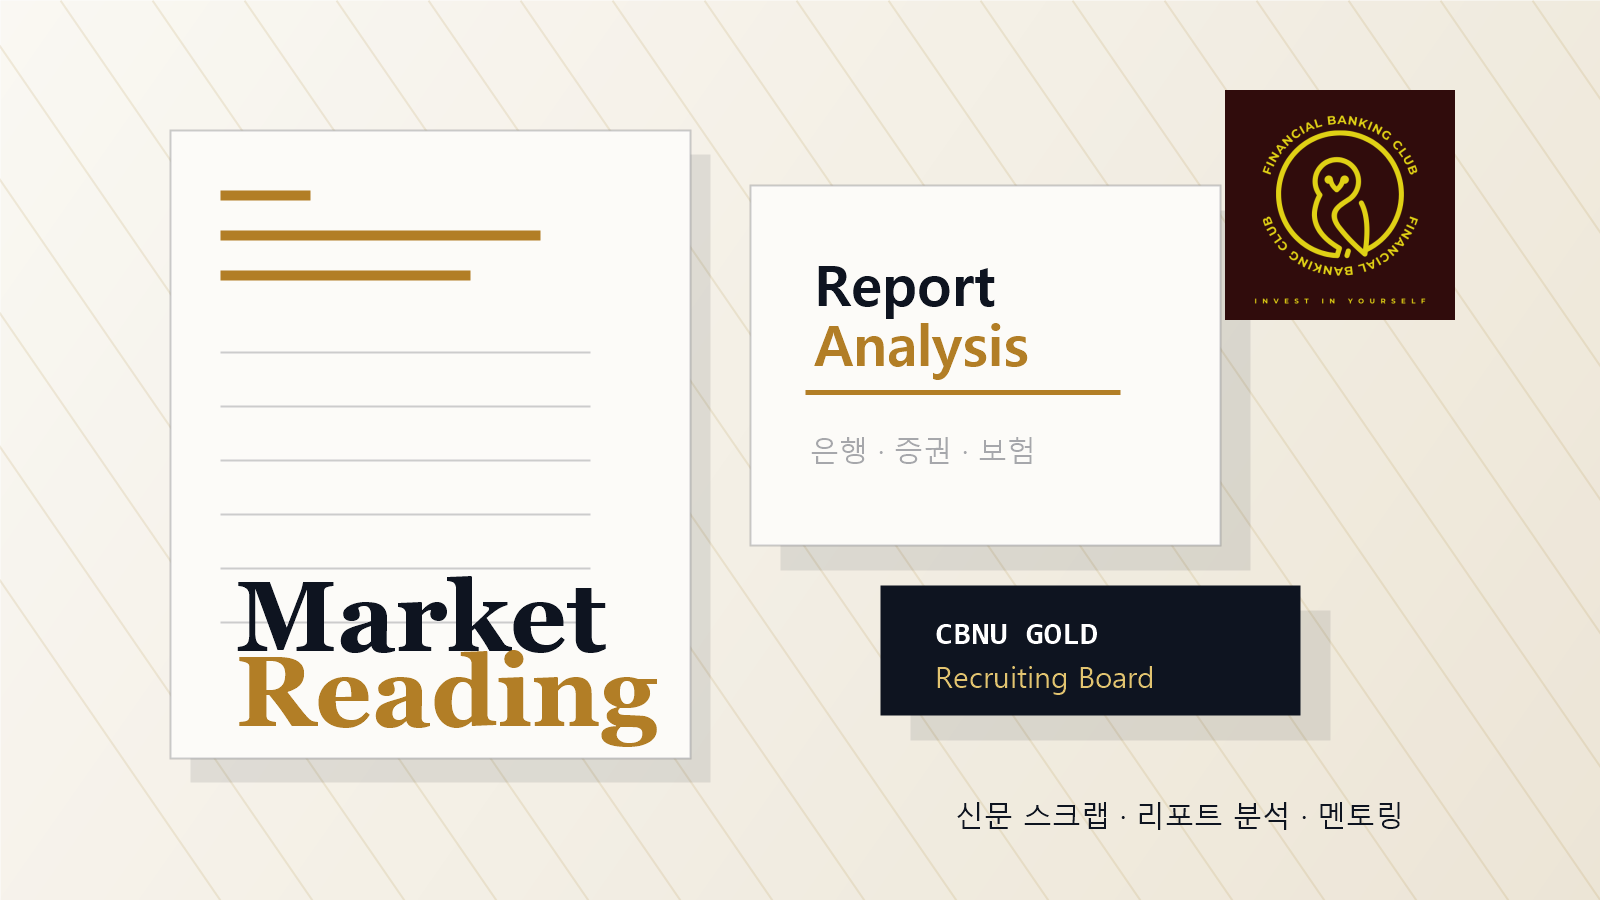
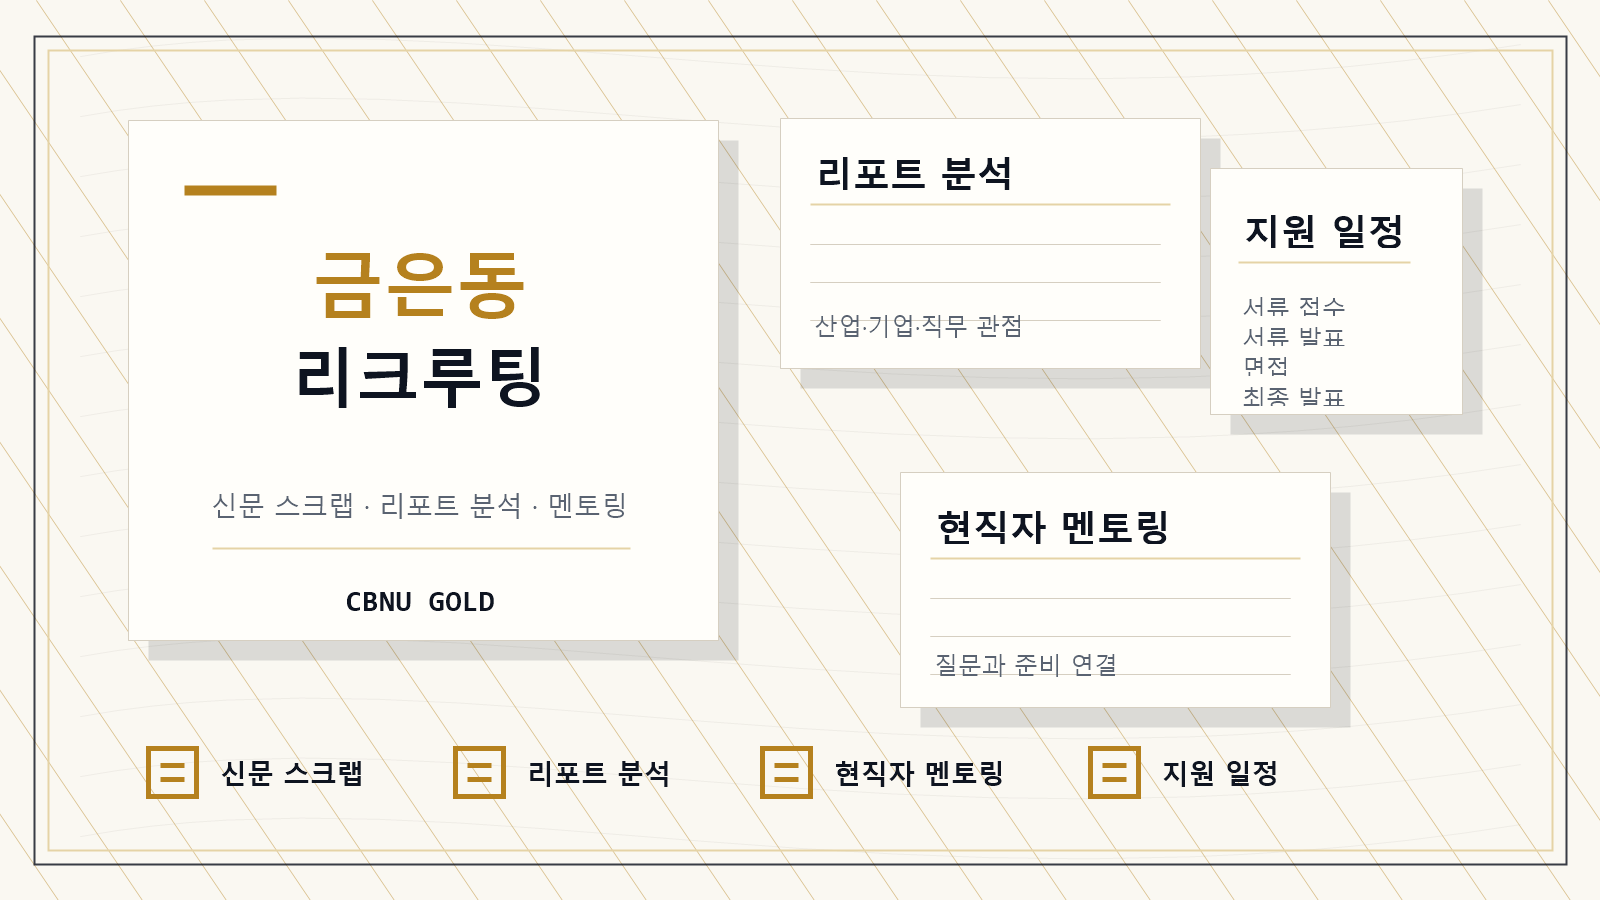
Add security headers and responsive QA

diff --git a/tests/e2e/public-routes.spec.ts b/tests/e2e/public-routes.spec.ts
@@ -1,0 +1,74 @@
+import { expect, test } from "@playwright/test";
+
+const routes = ["/", "/about", "/activity", "/join", "/join/check", "/admin/login"];
+const forbiddenCopy = [
+  ["\uC704\uD0A4", "콘텐츠"].join(" "),
+  ["성과와 기록을", "숨기지 않습니다"].join(" "),
+  ["지원자가 동아리의", "실질성을 판단"].join(" "),
+  ["대표", "금융 동아리"].join(" "),
+  ["Designed", "Built"].join(" & "),
+  ["cufa", "w" + "iki"].join("-"),
+  ["Invest", "yourself"].join(" in "),
+];
+
+for (const route of routes) {
+  test(`${route} renders without overflow or rejected copy`, async ({ page }, testInfo) => {
+    const consoleMessages: string[] = [];
+    page.on("console", (message) => {
+      if (["error", "warning"].includes(message.type())) {
+        consoleMessages.push(message.text());
+      }
+    });
+
+    const response = await page.goto(route, { waitUntil: "domcontentloaded" });
+    await page.waitForTimeout(800);
+
+    expect(response?.status(), route).toBe(200);
+    await expect(page.locator("body")).toContainText(route === "/admin/login" ? "관리자 로그인" : "금은동");
+
+    const metrics = await page.evaluate(() => ({
+      scrollWidth: document.documentElement.scrollWidth,
+      innerWidth: window.innerWidth,
+      h1: document.querySelector("h1")?.textContent?.trim() ?? "",
+      bodyText: document.body.innerText,
+      images: Array.from(document.images).map((img) => ({
+        alt: img.alt,
+        width: img.naturalWidth,
+        height: img.naturalHeight,
+      })),
+    }));
+
+    expect(metrics.h1.length, `${route} h1`).toBeGreaterThan(0);
+    expect(metrics.scrollWidth, `${route} horizontal overflow`).toBeLessThanOrEqual(metrics.innerWidth + 1);
+
+    for (const text of forbiddenCopy) {
+      expect(metrics.bodyText).not.toContain(text);
+    }
+
+    for (const image of metrics.images) {
+      expect(image.width, `${route} image ${image.alt}`).toBeGreaterThan(0);
+    }
+
+    const relevantConsole = consoleMessages.filter((entry) => !entry.includes("Supabase에 연결할 수 없습니다"));
+    expect(relevantConsole, `${route} console messages`).toEqual([]);
+
+    await testInfo.attach(`${testInfo.project.name}-${route === "/" ? "home" : route.slice(1).replaceAll("/", "-")}.png`, {
+      body: await page.screenshot({ fullPage: false }),
+      contentType: "image/png",
+    });
+  });
+}
+
+test("mobile menu opens and closes", async ({ page }, testInfo) => {
+  test.skip((testInfo.project.use.viewport?.width ?? 0) >= 768, "Mobile menu is hidden at md and wider breakpoints.");
+
+  await page.goto("/", { waitUntil: "domcontentloaded" });
+  await page.waitForTimeout(800);
+
+  await page.getByRole("button", { name: "메뉴 열기" }).click();
+  await expect(page.getByRole("dialog", { name: "모바일 메뉴" })).toBeVisible();
+  await expect(page.getByRole("link", { name: "지원하기" })).toBeVisible();
+
+  await page.locator('label[aria-label="메뉴 닫기"]').click();
+  await expect(page.getByRole("dialog", { name: "모바일 메뉴" })).toBeHidden();
+});

diff --git a/playwright.config.ts b/playwright.config.ts
@@ -1,0 +1,49 @@
+import { defineConfig, devices } from "@playwright/test";
+
+const port = process.env.E2E_PORT ?? "3003";
+const baseURL = process.env.E2E_BASE_URL ?? `http://127.0.0.1:${port}`;
+
+export default defineConfig({
+  testDir: "./tests/e2e",
+  timeout: 45_000,
+  expect: {
+    timeout: 5_000,
+  },
+  fullyParallel: true,
+  reporter: [["list"]],
+  use: {
+    baseURL,
+    trace: "retain-on-failure",
+  },
+  webServer: process.env.E2E_BASE_URL
+    ? undefined
+    : {
+        command: `npm run start -- --hostname 127.0.0.1 --port ${port}`,
+        url: baseURL,
+        reuseExistingServer: !process.env.CI,
+        timeout: 60_000,
+      },
+  projects: [
+    {
+      name: "mobile",
+      use: {
+        ...devices["Pixel 5"],
+        viewport: { width: 390, height: 844 },
+      },
+    },
+    {
+      name: "tablet",
+      use: {
+        ...devices["Desktop Chrome"],
+        viewport: { width: 768, height: 1024 },
+      },
+    },
+    {
+      name: "desktop",
+      use: {
+        ...devices["Desktop Chrome"],
+        viewport: { width: 1280, height: 900 },
+      },
+    },
+  ],
+});

diff --git a/next.config.ts b/next.config.ts
@@ -1,7 +1,42 @@
 import type { NextConfig } from "next";
 
+const securityHeaders = [
+  { key: "X-Content-Type-Options", value: "nosniff" },
+  { key: "X-Frame-Options", value: "DENY" },
+  { key: "Referrer-Policy", value: "strict-origin-when-cross-origin" },
+  { key: "Cross-Origin-Opener-Policy", value: "same-origin" },
+  { key: "X-Permitted-Cross-Domain-Policies", value: "none" },
+  {
+    key: "Permissions-Policy",
+    value: "camera=(), microphone=(), geolocation=(), payment=(), usb=(), interest-cohort=()",
+  },
+  {
+    key: "Content-Security-Policy",
+    value: "base-uri 'self'; object-src 'none'; frame-ancestors 'none'; form-action 'self'",
+  },
+];
+
+const privateRouteHeaders = [
+  { key: "Cache-Control", value: "no-store, max-age=0" },
+];
+
 const nextConfig: NextConfig = {
-  /* config options here */
+  async headers() {
+    return [
+      {
+        source: "/:path*",
+        headers: securityHeaders,
+      },
+      {
+        source: "/admin/:path*",
+        headers: privateRouteHeaders,
+      },
+      {
+        source: "/api/admin/:path*",
+        headers: privateRouteHeaders,
+      },
+    ];
+  },
 };
 
 export default nextConfig;

diff --git a/tests/cms-utils.test.ts b/tests/cms-utils.test.ts
@@ -44,7 +44,7 @@ import { validateAndNormalizeRecruitmentPayload } from "../src/lib/recruitment-a
 import { isRecord, readJsonObject } from "../src/lib/request-json";
 import { validateAndNormalizeSiteSettingsValue } from "../src/lib/site-settings";
 import { fallbackBlocks } from "../src/lib/cms-fallback";
-import { defaultSeoDescription, recruitingShareImage } from "../src/lib/seo";
+import { defaultSeoDescription, recruitingShareImage, siteUrl } from "../src/lib/seo";
 import type { RecruitmentCycle } from "../src/types";
 
 const baseCycle: RecruitmentCycle = {
@@ -206,7 +206,11 @@ test("fallback home content includes editable visual and philosophy blocks", () 
 test("SEO metadata uses the recruiting visual and Korean description", () => {
   const layout = readFileSync(new URL("../src/app/layout.tsx", import.meta.url), "utf8");
   const home = readFileSync(new URL("../src/app/page.tsx", import.meta.url), "utf8");
+  const robots = readFileSync(new URL("../src/app/robots.ts", import.meta.url), "utf8");
+  const sitemap = readFileSync(new URL("../src/app/sitemap.ts", import.meta.url), "utf8");
 
+  assert.ok(siteUrl.length > 0);
+  assert.doesNotMatch(siteUrl, /\/$/);
   assert.equal(recruitingShareImage.url, "/images/gold-recruiting-board.png");
   assert.equal(recruitingShareImage.width, 1600);
   assert.equal(recruitingShareImage.height, 900);
@@ -214,6 +218,25 @@ test("SEO metadata uses the recruiting visual and Korean description", () => {
   assert.equal(defaultSeoDescription.includes(["Invest", "in", "yourself"].join(" ")), false);
   assert.match(layout, /recruitingShareImage/);
   assert.match(home, /recruitingShareImage/);
+  assert.match(robots, /siteUrl/);
+  assert.match(sitemap, /siteUrl/);
+});
+
+test("Next config applies baseline security headers and admin no-store cache", () => {
+  const config = readFileSync(new URL("../next.config.ts", import.meta.url), "utf8");
+  const proxy = readFileSync(new URL("../src/proxy.ts", import.meta.url), "utf8");
+
+  assert.match(config, /X-Content-Type-Options/);
+  assert.match(config, /X-Frame-Options/);
+  assert.match(config, /Referrer-Policy/);
+  assert.match(config, /Permissions-Policy/);
+  assert.match(config, /frame-ancestors 'none'/);
+  assert.match(proxy, /export function proxy/);
+  assert.match(proxy, /pathname\.startsWith\("\/admin"\)/);
+  assert.match(proxy, /pathname\.startsWith\("\/api\/admin"\)/);
+  assert.match(proxy, /matcher: \["\/admin\/:path\*", "\/api\/admin\/:path\*"\]/);
+  assert.match(config, /no-store, max-age=0/);
+  assert.match(proxy, /no-store, max-age=0/);
 });
 
 test("health status reports degraded when any check fails", () => {

diff --git a/src/proxy.ts b/src/proxy.ts
@@ -1,0 +1,18 @@
+import { NextResponse, type NextRequest } from "next/server";
+
+const privateCacheControl = "no-store, max-age=0";
+
+export function proxy(request: NextRequest) {
+  const response = NextResponse.next();
+  const pathname = request.nextUrl.pathname;
+
+  if (pathname.startsWith("/admin") || pathname.startsWith("/api/admin")) {
+    response.headers.set("Cache-Control", privateCacheControl);
+  }
+
+  return response;
+}
+
+export const config = {
+  matcher: ["/admin/:path*", "/api/admin/:path*"],
+};

diff --git a/src/app/sitemap.ts b/src/app/sitemap.ts
@@ -1,13 +1,13 @@
 import type { MetadataRoute } from "next";
+import { siteUrl } from "@/lib/seo";
 
 export default function sitemap(): MetadataRoute.Sitemap {
-  const baseUrl = "https://cbnugold.vercel.app";
   const lastModified = new Date("2026-02-20");
 
   return [
-    { url: baseUrl, lastModified, changeFrequency: "weekly", priority: 1 },
-    { url: `${baseUrl}/about`, lastModified, changeFrequency: "monthly", priority: 0.8 },
-    { url: `${baseUrl}/activity`, lastModified, changeFrequency: "monthly", priority: 0.7 },
-    { url: `${baseUrl}/join`, lastModified, changeFrequency: "weekly", priority: 0.9 },
+    { url: siteUrl, lastModified, changeFrequency: "weekly", priority: 1 },
+    { url: `${siteUrl}/about`, lastModified, changeFrequency: "monthly", priority: 0.8 },
+    { url: `${siteUrl}/activity`, lastModified, changeFrequency: "monthly", priority: 0.7 },
+    { url: `${siteUrl}/join`, lastModified, changeFrequency: "weekly", priority: 0.9 },
   ];
 }

diff --git a/src/app/robots.ts b/src/app/robots.ts
@@ -1,4 +1,5 @@
 import type { MetadataRoute } from "next";
+import { siteUrl } from "@/lib/seo";
 
 export default function robots(): MetadataRoute.Robots {
   return {
@@ -9,6 +10,6 @@ export default function robots(): MetadataRoute.Robots {
         disallow: ["/admin", "/api/"],
       },
     ],
-    sitemap: "https://cbnugold.vercel.app/sitemap.xml",
+    sitemap: `${siteUrl}/sitemap.xml`,
   };
 }

diff --git a/src/lib/seo.ts b/src/lib/seo.ts
@@ -1,4 +1,4 @@
-export const siteUrl = "https://cbnugold.vercel.app";
+export const siteUrl = (process.env.NEXT_PUBLIC_SITE_URL ?? "https://cbnugold.vercel.app").replace(/\/$/, "");
 
 export const defaultSeoDescription =
   "충북대학교 금융권 취업 동아리 금은동입니다. 신문 스크랩, 리포트 분석, 세일즈 페어, 현직자 멘토링을 중심으로 금융권 직무를 준비합니다.";

diff --git a/docs/ADMIN_CMS_RUNBOOK.md b/docs/ADMIN_CMS_RUNBOOK.md
@@ -46,6 +46,9 @@
 - `home/hero`의 미디어 URL은 홈 첫 화면 키비주얼에 연결됩니다. 기본값은 `/images/gold-recruiting-board.png`이며, 공식 사진이 준비되면 미디어 탭에 업로드한 URL로 교체합니다.
 - `home/philosophy` 본문은 `제목: 설명` 형식으로 줄바꿈해 최대 3개의 운영 철학 항목으로 노출됩니다.
 - 공유 카드 이미지는 기본 키비주얼을 사용합니다. 공식 홍보 이미지로 바꿀 때는 화면용 이미지와 함께 SEO 메타 이미지도 같은 톤으로 교체합니다.
+- 공개 문구는 활동, 일정, 지원 절차, 확인된 성과만 적습니다. 대표성, 우수성, 유일성처럼 동아리가 스스로 평가하는 문장은 사용하지 않습니다.
+- 사전형 콘텐츠는 공개 정보 구조에서 제외합니다. FAQ는 지원자가 실제로 확인해야 하는 질문만 유지합니다.
+- 성과 영역은 설명 문단 없이 2025년 확인 기록을 목록으로만 노출합니다.
 - `about/intro`, `about/partners`, `activity/intro` 블록은 소개·활동 페이지 상단 문구와 협력 정보에 연결됩니다.
 - 미디어 탭에서는 PNG, JPG, WebP, PDF, DOCX, HWP를 업로드합니다.
 - 모집 양식 파일은 미디어 탭의 `URL 복사`로 주소를 복사한 뒤 모집 탭의 DOCX/HWP URL에 입력합니다.
@@ -75,7 +78,9 @@
 - `npm run lint`
 - `npm run test`
 - `npm run build`
+- `npm run test:e2e`
 - `npm run check:ops -- https://배포주소`
+- 로컬 보안 헤더까지 확인할 때는 `npm run build` 후 `npm run start`로 실행한 주소에서 `check:ops`를 돌립니다.
 - `/`, `/about`, `/activity`, `/join`, `/admin/login` 화면 확인
 - `/api/health`가 `200`과 `status: ok`를 반환하는지 확인
 - 심층 DB/Storage 점검이 필요하면 `HEALTHCHECK_TOKEN` 설정 후 `npm run check:ops -- https://배포주소 --deep --token=토큰`을 실행합니다.
@@ -91,5 +96,6 @@
 - `applications` 버킷은 private, `cms-media` 버킷은 public이어야 합니다.
 - 기본 헬스체크는 공개 경로이므로 Supabase 공개 읽기 연결만 확인합니다. 테이블·스토리지 항목별 심층 점검은 `HEALTHCHECK_TOKEN`이 있을 때만 실행합니다.
 - 헬스체크는 비밀값을 반환하지 않고 항목별 통과 여부만 반환합니다.
+- 운영 점검은 기본 보안 헤더와 관리자 화면/API의 `no-store` 캐시 정책도 함께 확인합니다.
 - Supabase 연결 장애를 알고 있는 상태에서 공개 라우트만 먼저 점검할 때는 `npm run check:ops -- https://배포주소 --allow-degraded`를 사용합니다.
 - Vercel Preview가 보호되어 모든 경로가 `401`이면 `vercel curl`로 Preview를 검증하거나 공개 Production URL에서 `check:ops`를 실행합니다.

diff --git a/README.md b/README.md
@@ -50,10 +50,12 @@ See [`docs/ADMIN_CMS_RUNBOOK.md`](docs/ADMIN_CMS_RUNBOOK.md) for the operating c
 
 ```bash
 npm run verify
+npm run test:e2e
 npm run check:ops -- https://your-deployment.example.com
 ```
 
 Use `--allow-degraded` only when the Supabase connection outage is already known. Use `--deep --token=<HEALTHCHECK_TOKEN>` for table and storage diagnostics.
+`test:e2e` checks public routes, mobile navigation, rejected copy, image loading, and horizontal overflow across mobile, tablet, and desktop Chromium viewports.
 
 ## Admin Operations
 
@@ -64,8 +66,10 @@ Use `--allow-degraded` only when the Supabase connection outage is already known
 - CMS media accepts PNG, JPG, WebP, PDF, DOCX, and HWP files. SVG upload is intentionally blocked for public-bucket safety.
 - `home/hero` can use a CMS media URL for the first-screen key visual; the default image is `public/images/gold-recruiting-board.png`.
 - Open Graph and Twitter preview cards use the same recruiting key visual for consistent sharing.
+- Public copy should stay factual: activity, schedule, support process, and verified outcomes. Do not add self-ranking claims or encyclopedia-style content.
 - The application API requires a published open recruitment cycle before accepting submissions and blocks duplicate submissions by recruitment scope and student ID.
 - `/api/health` exposes a shallow public check; deep DB/storage checks require `HEALTHCHECK_TOKEN`.
+- `next.config.ts` applies baseline security headers. `src/proxy.ts` enforces `no-store` caching on admin surfaces in production/runtime checks.
 
 ## Project Structure
 